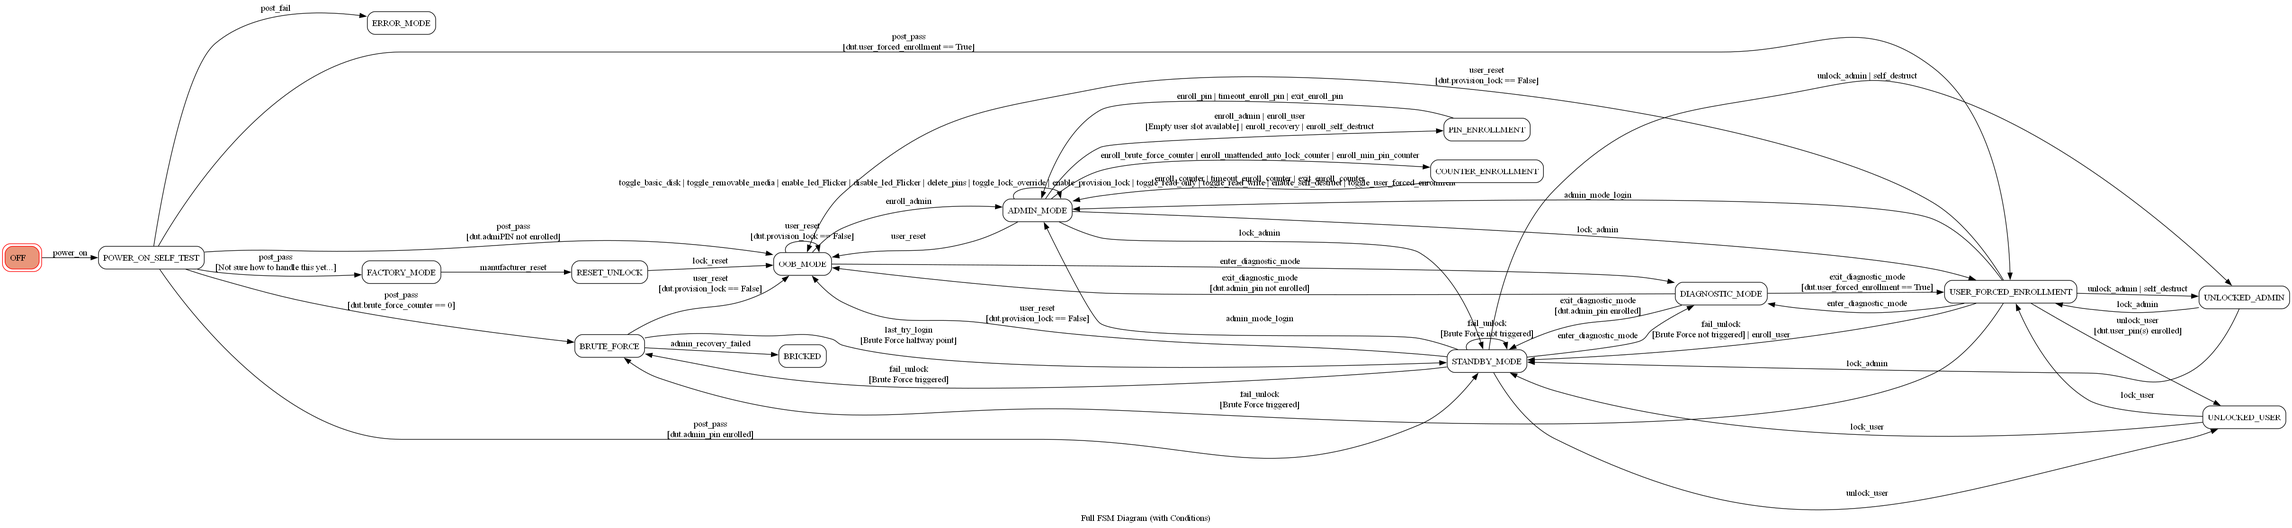
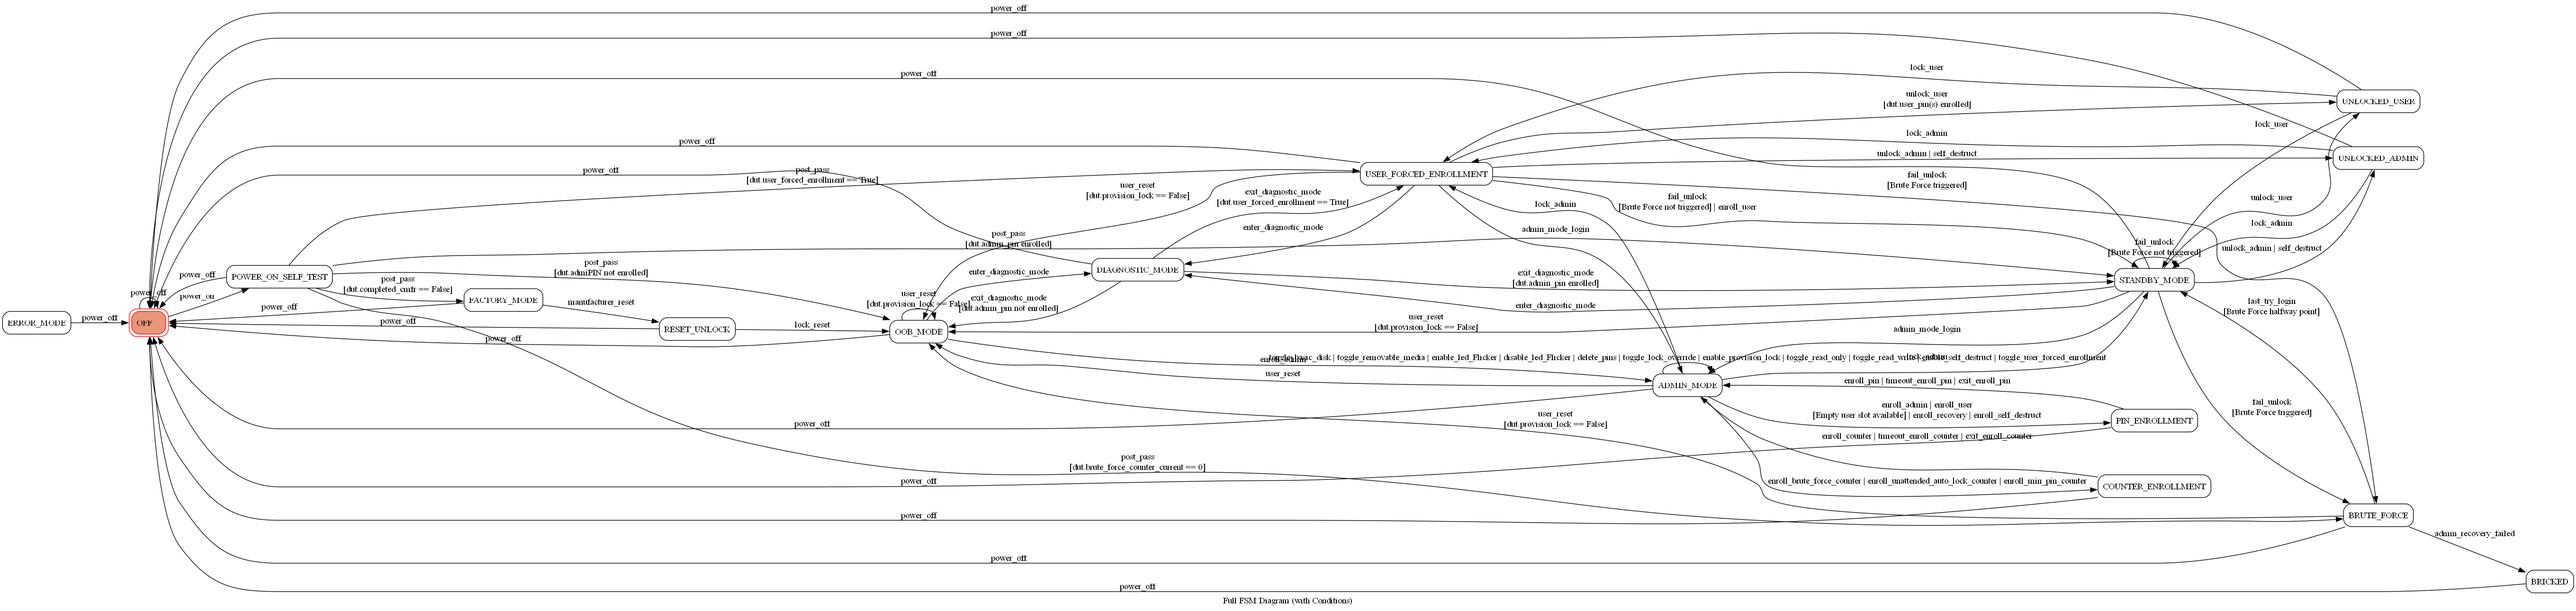
Added path to FACTORY_MODE

diff --git a/controllers/flight_control_fsm.py b/controllers/flight_control_fsm.py
@@ -112,6 +112,7 @@ class DeviceUnderTest:
         self.hardware_id_2: int = DEVICE_PROPERTIES[self.device_name]['hardware_minor']
         self.scb_part_number: str = DEVICE_PROPERTIES[self.device_name]['scb_part_number']
         self.single_code_base: bool = self.scb_part_number is None
+        self.completed_cmfr: bool = True
 
         self.basic_disk: bool = True
         self.removable_media: bool = False
@@ -282,7 +283,7 @@ class ApricornDeviceFSM:
     STATES: List[str] = ['OFF', 'POWER_ON_SELF_TEST', 'ERROR_MODE', 'BRUTE_FORCE', 'BRICKED', 'OOB_MODE', 'STANDBY_MODE', 'USER_FORCED_ENROLLMENT', 'FACTORY_MODE',
                          'UNLOCKED_ADMIN', 'UNLOCKED_USER', 'RESET_UNLOCK',
                          'ADMIN_MODE', 'PIN_ENROLLMENT', 'COUNTER_ENROLLMENT',
-                         'DIAGNOSTIC_MODE'
+                         'DIAGNOSTIC_MODE',
     ]
 
     logger: logging.Logger
@@ -305,11 +306,11 @@ class ApricornDeviceFSM:
         transitions = [
             # --- Power On/Off Transitions ---
             {'trigger': 'power_on', 'source': 'OFF', 'dest': 'POWER_ON_SELF_TEST', 'before': '_do_power_on'},
-            {'trigger': 'post_fail', 'source': 'POWER_ON_SELF_TEST', 'dest': 'ERROR_MODE'},
             {'trigger': 'power_off', 'source': '*', 'dest': 'OFF', 'before': '_do_power_off'},
+            # {'trigger': 'collect_error_number', 'source': '*', 'dest': 'ERROR_MODE'},
 
             # --- 'Idle' Mode Transitions (from POST) ---
-            # {'trigger': 'post_pass', 'source': 'POWER_ON_SELF_TEST', 'dest': 'FACTORY_MODE', 'conditions': [CallableCondition(lambda _: not self.dut.admin_pin, "Not sure how to handle this yet...")]},
+            {'trigger': 'post_pass', 'source': 'POWER_ON_SELF_TEST', 'dest': 'FACTORY_MODE', 'conditions': [CallableCondition(lambda _: not self.dut.completed_cmfr, "dut.completed_cmfr == False")]},
             {'trigger': 'post_pass', 'source': 'POWER_ON_SELF_TEST', 'dest': 'BRUTE_FORCE', 'conditions': [CallableCondition(lambda _: self.dut.brute_force_counter_current == 0, "dut.brute_force_counter_current == 0")]},
             {'trigger': 'post_pass', 'source': 'POWER_ON_SELF_TEST', 'dest': 'USER_FORCED_ENROLLMENT', 'conditions': [CallableCondition(lambda _: bool(self.dut.user_forced_enrollment), "dut.user_forced_enrollment == True")]},
             {'trigger': 'post_pass', 'source': 'POWER_ON_SELF_TEST', 'dest': 'OOB_MODE', 'conditions': [CallableCondition(lambda _: not self.dut.admin_pin, "dut.admiPIN not enrolled")]},
@@ -559,10 +560,15 @@ class ApricornDeviceFSM:
             'fsm_current_state': self.source_state,
             'fsm_destination_state': self.state
         }
-        if self.at.confirm_led_solid(LEDs['ALL_ON'], minimum=3.0, timeout=10.0, replay_extra_context=context):
-            self.logger.info("Stable FACTORY_MODE confirmed.")
-        else:
+        if not self.at.confirm_led_solid(LEDs['ALL_ON'], minimum=3.0, timeout=10.0, replay_extra_context=context):
             self.logger.error("Failed to confirm FACTORY_MODE LEDs.")
+        else:
+            keypad_test = ["key1", "key2", "key3", "key4", "key5", "key6", "key7", "key8", "key9", "lock", "key0", "unlock"]
+            for key in keypad_test:
+                self.at.on(key)
+                if not self.at.await_led_state(LEDs['ACCEPT_STATE'], timeout=1, clear_buffer=False, replay_extra_context=context):
+                    self.at.off(key)
+                    raise TransitionCallbackError(f"Failed '{key}' confirmation")
 
     def on_enter_OOB_MODE(self, event_data: EventData) -> None:
         """
@@ -584,7 +590,8 @@ class ApricornDeviceFSM:
         if self.at.confirm_led_solid(LEDs['GREEN_BLUE_STATE'], minimum=3.0, timeout=10.0, replay_extra_context=context):
             self.logger.info("Stable OOB_MODE confirmed.")
         else:
-            self.logger.error("Failed to confirm OOB_MODE LEDs.")
+            self.dut.completed_cmfr = False
+            self.power_off()
 
         if not self.at.confirm_device_enum():
             self.logger.error("Device did not enumerate in OOB_MODE.")

diff --git a/camera/camera_controller.py b/camera/camera_controller.py
@@ -77,8 +77,8 @@ PRIMARY_LED_CONFIGURATIONS = {
 
 # --- FALLBACK LED CONFIGURATIONS (Generic Placeholders) ---
 _FALLBACK_LED_DEFINITIONS = {
-    "fallback_led1": {
-        "name": "Fallback Generic LED 1",
+    "fallback_red": {
+        "name": "Fallback Generic Red LED",
         "roi": (50, 50, 20, 20),
         "hsv_lower": (0, 100, 100), "hsv_upper": (10, 255, 255),
         "min_match_percentage": 0.1,
